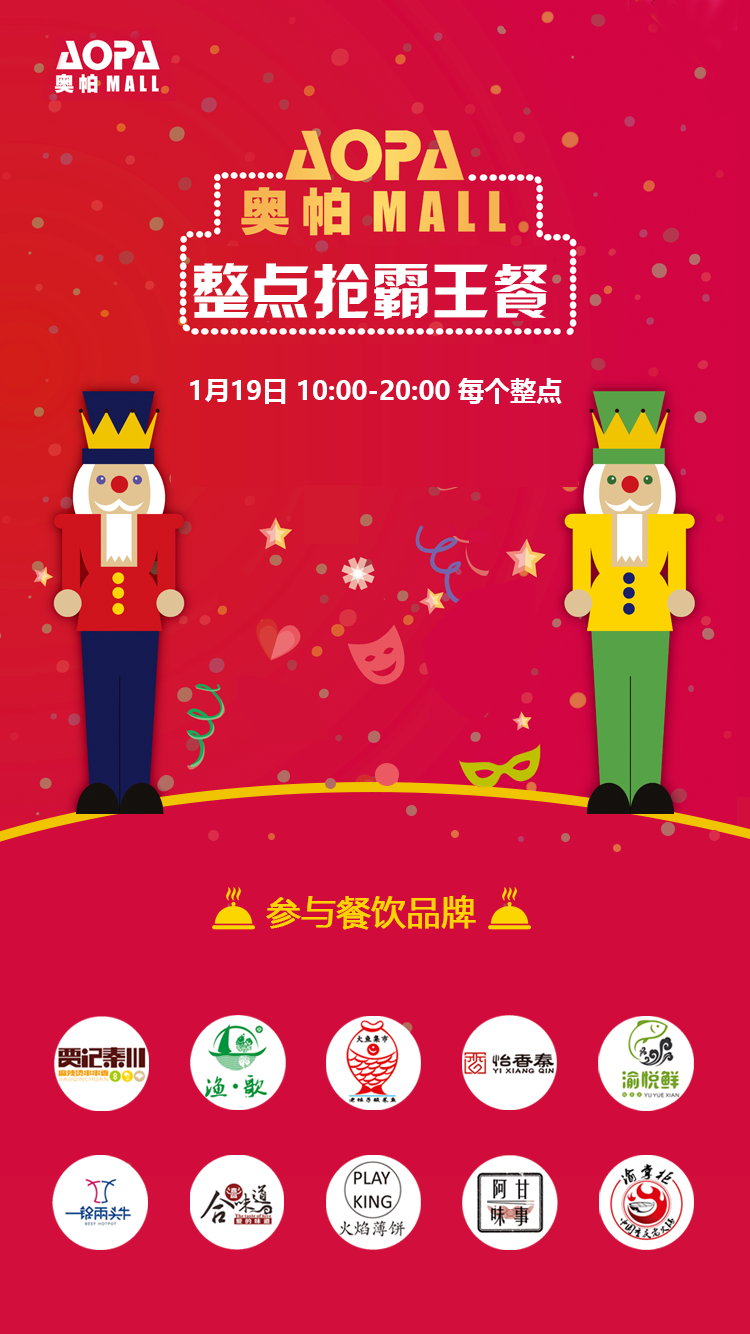
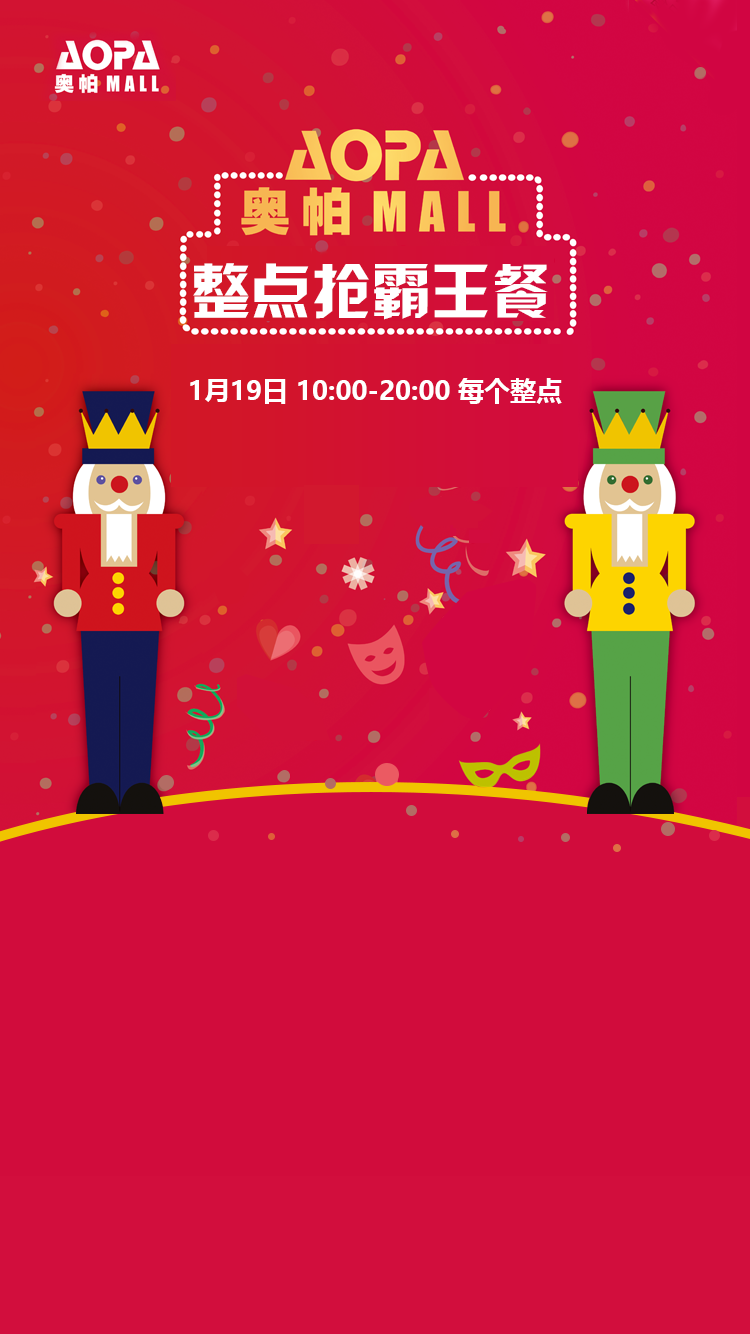
xdd

diff --git a/addons/dq_2017/template/mobile/bawangcan/bwc.html b/addons/dq_2017/template/mobile/bawangcan/bwc.html
@@ -26,7 +26,6 @@
             margin: 0;
             padding: 0;
             line-height: 1.5em;
-            position: relative;
         }
 
         img {
@@ -64,17 +63,20 @@
             content: '';
             display: table;
         }
+        .header{
+            width:100%;
+            height:35%;
+        }
         .btn{
             width: 40%;
             margin: 0 auto;
-            position: absolute;
             top: 220px;
             left: 30%;
         }
         .time{
             width: 50%;
             margin: 20px auto;
-            position: absolute;
+            position: relative;
             top: 270px;
             left: 25%;
 
@@ -92,6 +94,7 @@
     </style>
 </head>
 <body ontouchstart>
+<div class="header"></div>
 <div class="btn">
     <img src="../addons/dq_2017/template/mobile/bawangcan/images/btn1.png" alt="">
 </div>
@@ -101,6 +104,12 @@
         <span>00</span>
         <span>00</span>
     </div>
+</div>
+<div class="title">
+    <img src="../addons/dq_2017/template/mobile/bawangcan/images/title.png" alt="">
+</div>
+<div class="logo">
+    <img src="../addons/dq_2017/template/mobile/bawangcan/images/logo.png" alt="">
 </div>
 <script src="http://res.wx.qq.com/open/js/jweixin-1.2.0.js"></script>
 <script src='../addons/dq_2017/template/mobile/newyear/js/jq.js'></script>
